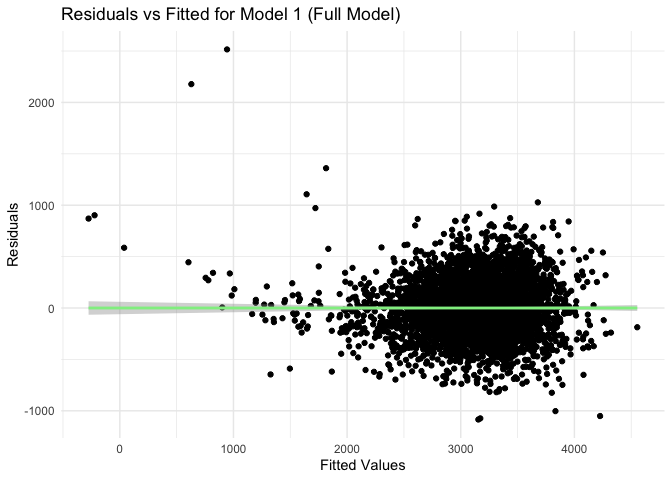
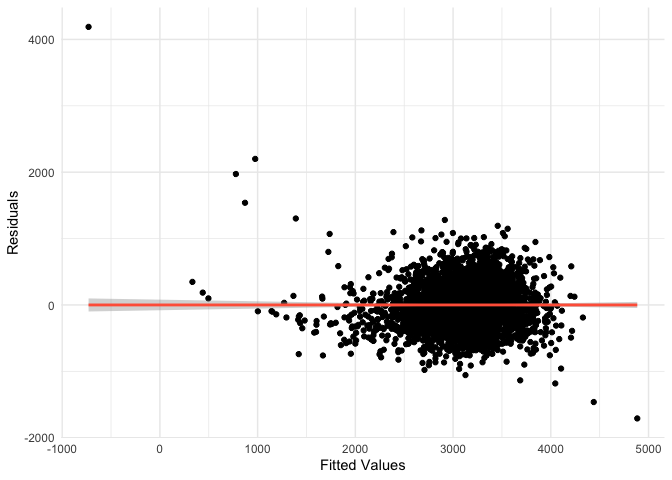
Editing problem 3 fitted models

diff --git a/p8105_hw6_iah2124.md b/p8105_hw6_iah2124.md
@@ -316,17 +316,14 @@ Propose the hypothetical fit model
 hypotheticalrg_model <- lm(bwt ~ blength + bhead + babysex + gaweeks + delwt + fincome + 
                             smoken + wtgain + momage + mheight + parity, data = birthweight_df)
 
-birthweight_df_with_preds_resids <- birthweight_df |>
-  add_predictions(hypotheticalrg_model) |>  
-  add_residuals(hypotheticalrg_model) |>     
+birthweight_df |> 
+  add_predictions(hypotheticalrg_model) |>
+  add_residuals(hypotheticalrg_model) |>
   ggplot(aes(x = pred, y = resid)) + 
   geom_point() + 
-  geom_smooth(method = "lm", color = "lightgreen") +  
+  geom_smooth(method = "lm", color = "lightgreen") + 
   theme_minimal() +
-  labs(x = "Fitted Values", y = "Residuals", 
-       title = "Residuals vs Fitted Values for Birthweight Model")
-  
-birthweight_df_with_preds_resids
+  labs(x = "Fitted Values", y = "Residuals")
 ```
 
     ## `geom_smooth()` using formula = 'y ~ x'
@@ -334,77 +331,74 @@ birthweight_df_with_preds_resids
 ![](p8105_hw6_iah2124_files/figure-gfm/unnamed-chunk-14-1.png)<!-- -->
 \### Model explanation \###
 
-Fit the three models
+Main effects fitted model
 
 ``` r
-model1 <- lm(bwt ~ blength + bhead + babysex + gaweeks + delwt + fincome + 
-              smoken + wtgain + momage + mheight + parity, data = birthweight_df)
+maineffects_model <- lm(bwt ~ blength + gaweeks, data = birthweight_df)
 
-model2 <- lm(bwt ~ blength + gaweeks, data = birthweight_df)
-
-model3 <- lm(bwt ~ bhead * blength * babysex, data = birthweight_df)
-
-# Compare AIC of each model
-model_comparison <- tibble(
-  Model = c("Model 1 (Full)", "Model 2 (Main Effects Only)", "Model 3 (Interactions)"),
-  AIC = c(AIC(model1), AIC(model2), AIC(model3)),
-  R_squared = c(summary(model1)$r.squared, summary(model2)$r.squared, summary(model3)$r.squared)
-)
-
-# Print the model comparison table
-print(model_comparison)
-```
-
-    ## # A tibble: 3 × 3
-    ##   Model                          AIC R_squared
-    ##   <chr>                        <dbl>     <dbl>
-    ## 1 Model 1 (Full)              61207.     0.706
-    ## 2 Model 2 (Main Effects Only) 62771.     0.577
-    ## 3 Model 3 (Interactions)      61501.     0.685
-
-``` r
-# Residual plots for each model
-model1_resids <- add_predictions(birthweight_df, model1) %>%
-  add_residuals(model1)
-
-model2_resids <- add_predictions(birthweight_df, model2) %>%
-  add_residuals(model2)
-
-model3_resids <- add_predictions(birthweight_df, model3) %>%
-  add_residuals(model3)
-
-# Plot residuals for each model
-ggplot(model1_resids, aes(x = pred, y = resid)) +
-  geom_point() +
-  geom_smooth(method = "lm", color = "lightgreen") +
-  labs(title = "Residuals vs Fitted for Model 1 (Full Model)", x = "Fitted Values", y = "Residuals") +
-  theme_minimal()
+birthweight_df |>
+  add_predictions(maineffects_model) |>
+  add_residuals(maineffects_model) |>
+  ggplot(aes(x = pred, y = resid)) + 
+  geom_point() + 
+  geom_smooth(method = "lm", color = "tomato") + 
+  theme_minimal() +
+  labs(x = "Fitted Values", y = "Residuals")
 ```
 
     ## `geom_smooth()` using formula = 'y ~ x'
 
 ![](p8105_hw6_iah2124_files/figure-gfm/unnamed-chunk-15-1.png)<!-- -->
+Interaction fitted model
 
 ``` r
-ggplot(model2_resids, aes(x = pred, y = resid)) +
-  geom_point() +
-  geom_smooth(method = "lm", color = "tomato") +
-  labs(title = "Residuals vs Fitted for Model 2 (Main Effects Only)", x = "Fitted Values", y = "Residuals") +
-  theme_minimal()
+interaction_model <- lm(bwt ~ bhead * blength * babysex + gaweeks + delwt + smoken + 
+                          wtgain + momage + mheight, data = birthweight_df)
+
+birthweight_df |>
+  add_predictions(interaction_model) |>
+  add_residuals(interaction_model) |>
+  ggplot(aes(x = pred, y = resid)) + 
+  geom_point() + 
+  geom_smooth(method = "lm", color = "orchid") + 
+  theme_minimal() +
+  labs(x = "Fitted Values", y = "Residuals")
 ```
 
     ## `geom_smooth()` using formula = 'y ~ x'
 
-![](p8105_hw6_iah2124_files/figure-gfm/unnamed-chunk-15-2.png)<!-- -->
+![](p8105_hw6_iah2124_files/figure-gfm/unnamed-chunk-16-1.png)<!-- -->
+
+Making comparisons between models
 
 ``` r
-ggplot(model3_resids, aes(x = pred, y = resid)) +
-  geom_point() +
-  geom_smooth(method = "lm", color = "orchid") +
-  labs(title = "Residuals vs Fitted for Model 3 (Interactions)", x = "Fitted Values", y = "Residuals") +
-  theme_minimal()
+cv_df <- crossv_mc(birthweight_df, 100) |> 
+  mutate(
+    train = map(train, as_tibble),
+    test = map(test, as_tibble)
+  )
+
+cv_res_df <- cv_df |> 
+  mutate(
+    hypotheticalrg_model = map(train, \(x) lm(bwt ~ blength + bhead + gaweeks + delwt + fincome + 
+                                              smoken + wtgain + momage + mheight + parity, data = x)),
+    maineffects_model = map(train, \(x) lm(bwt ~ blength + gaweeks, data = x)),
+    interaction_model = map(train, \(x) lm(bwt ~ bhead * blength * babysex + gaweeks + delwt + smoken + 
+                                             wtgain + momage + mheight, data = x))
+  ) |> 
+  mutate(
+    rmse_hypothetical = map2_dbl(hypotheticalrg_model, test, rmse),
+    rmse_main_effects = map2_dbl(maineffects_model, test, rmse),
+    rmse_interaction = map2_dbl(interaction_model, test, rmse)
+  )
 ```
 
-    ## `geom_smooth()` using formula = 'y ~ x'
+    ## Warning: There were 3 warnings in `mutate()`.
+    ## The first warning was:
+    ## ℹ In argument: `rmse_hypothetical = map2_dbl(hypotheticalrg_model, test,
+    ##   rmse)`.
+    ## Caused by warning in `predict.lm()`:
+    ## ! prediction from rank-deficient fit; attr(*, "non-estim") has doubtful cases
+    ## ℹ Run `dplyr::last_dplyr_warnings()` to see the 2 remaining warnings.
 
-![](p8105_hw6_iah2124_files/figure-gfm/unnamed-chunk-15-3.png)<!-- -->
+Plotting comparisons
